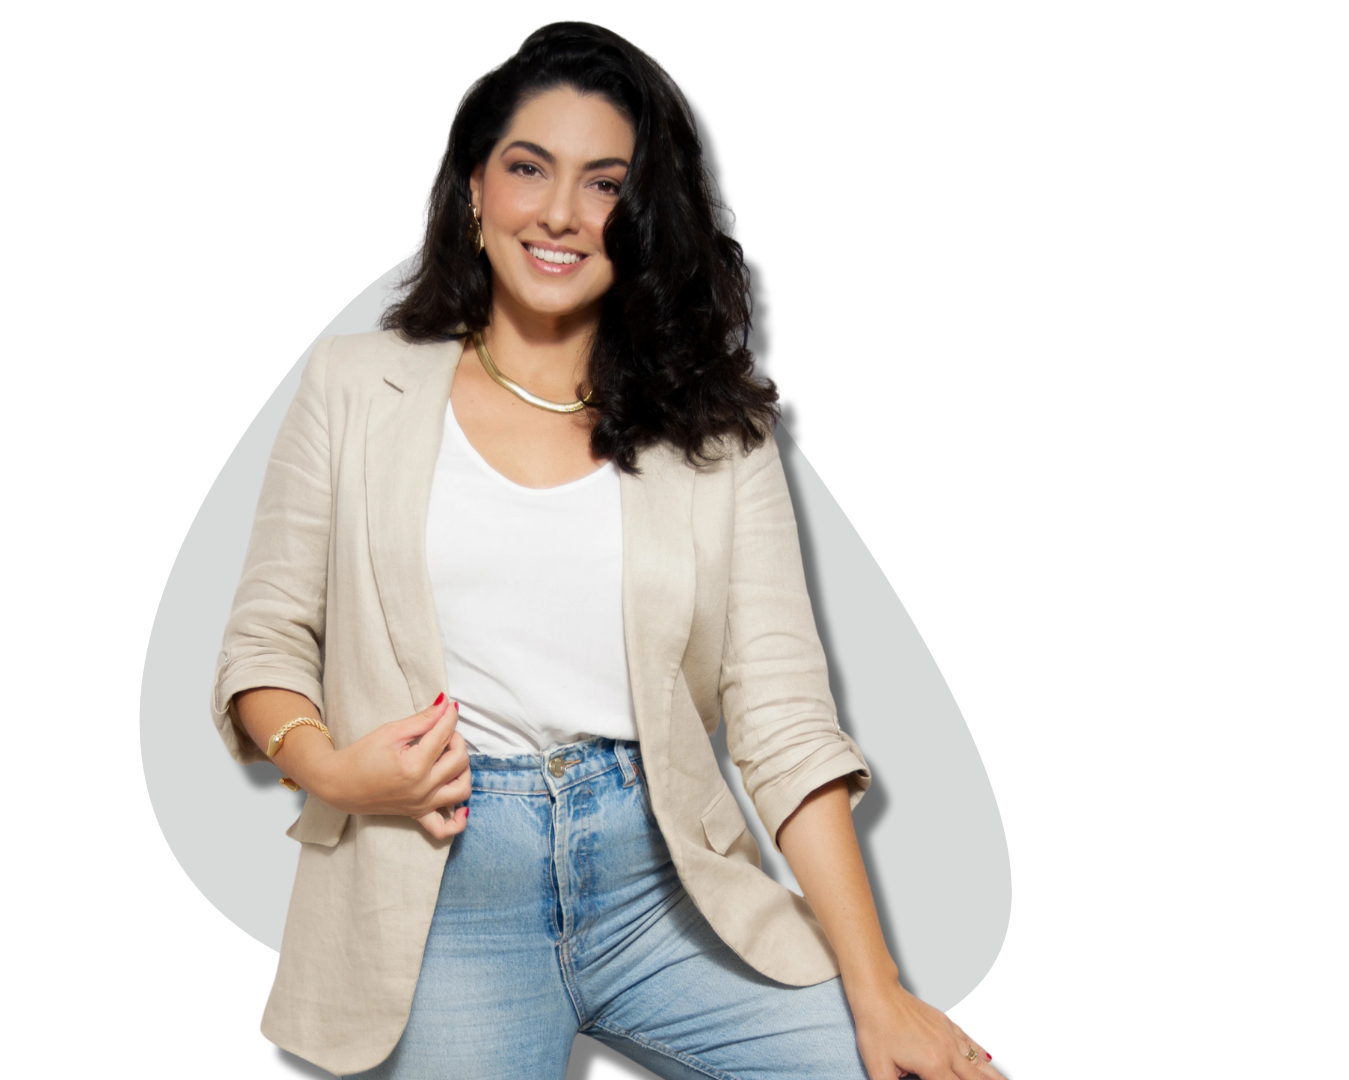
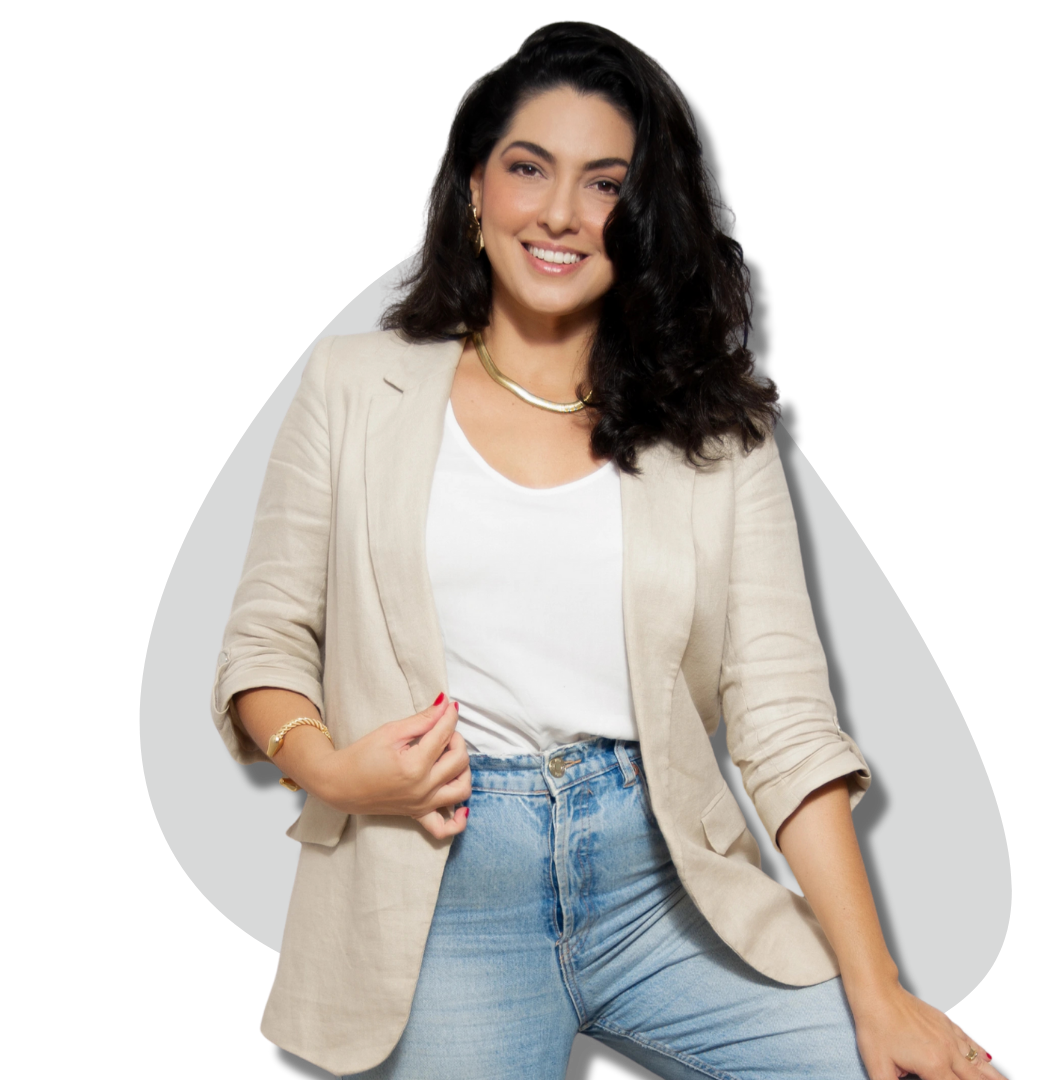
homepage updates

diff --git a/src/component/Pages/Interiores/Outros/AreaDeServico/areaDeServico.jsx b/src/component/Pages/Interiores/Outros/AreaDeServico/areaDeServico.jsx
@@ -31,15 +31,23 @@ const Area_de_Servico_four = [
 const AreaDeServico = () => {
     return (
         <>
-            <Hero image={Hero_Area_de_Servico[0]} />
+            <Hero
+                image={Hero_Area_de_Servico[0]}
+                title="Área de Serviço"
+                subtitle="Espaços de serviço planejados para praticidade e organização no dia a dia."
+            />
             <div className="imageGridArea_de_Servico">
                 <ImageSlide slides={Area_de_Servico_um} />
                 <ImageSlide slides={Area_de_Servico_two} />
                 <ImageSlide slides={Area_de_Servico_three} />
                 <ImageSlide slides={Area_de_Servico_four} />
             </div>
-            <div className="central">
-                <Link to='/Contato' className="OrcamentoButton">Orçamento</Link>
+            <div className="FinalCTAsection">
+                <div className="FinalCTAcard">
+                    <h2 className="FinalCTAtitle">Vamos organizar o seu espaço</h2>
+                    <p className="FinalCTAsubtitle">Uma área de serviço planejada para facilitar sua rotina com praticidade e estilo.</p>
+                    <Link to="/Contato" className="FinalCTAbutton">Solicitar orçamento</Link>
+                </div>
             </div>
         </>
     );

diff --git a/src/component/Pages/Interiores/Outros/outros.jsx b/src/component/Pages/Interiores/Outros/outros.jsx
@@ -10,7 +10,7 @@ const Hero_Outros = [
 ];
 
 const Area_de_Servico = [
-    { src: "/images/interior/Outros/Area_de_servico/01/03.webp", title: "Area de Serviço", link: "/Area_de_Servico" },
+    { src: "/images/interior/Outros/Area_de_servico/01/03.webp", title: "Area de Serviço", link: "/AreaDeServico" },
 ];
 
 const Escada = [

diff --git a/src/component/Pages/Sobre/sobre.jsx b/src/component/Pages/Sobre/sobre.jsx
@@ -58,7 +58,7 @@ const Sobre = () => {
                     </div>
 
                     <div className="sobreContentRow">
-                        <img className="photosSobre" src="../../images/Sobre/Hellen_photo2.webp" alt="Hellen Rocha analisando projeto de interiores" />
+                        <img className="photosSobre" src="../../images/Sobre/hellen_photo2.webp" alt="Hellen Rocha analisando projeto de interiores" />
                         <div className="textSobre">
                             Mas vamos destacar aqui duas coisas que não abro mão: praticidade e identidade, que, para mim, estão nos detalhes! Sou uma pessoa observadora, com o olhar treinado! Gosto de fazer uma leitura das pessoas antes de começar qualquer projeto, porque assim consigo transmitir o que o cliente realmente precisa.
                             <br /><br />